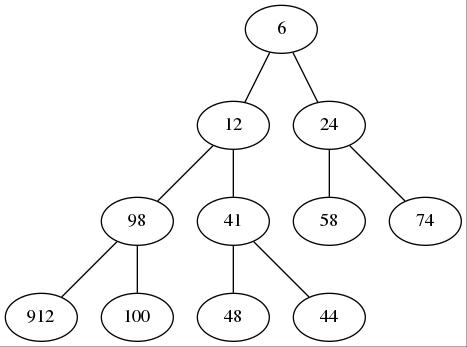
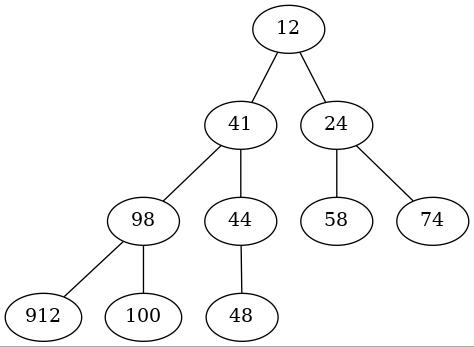
des petites modif de rien du tout

diff --git a/tas_binaire/mathieu/tas_binaire.c b/tas_binaire/mathieu/tas_binaire.c
@@ -12,11 +12,11 @@ int main()
     tab_v[0] = 48;
     tab_v[1] = 912;
     tab_v[10] = 12;
-    tab_v[2] = 24;
+    tab_v[2] = 74;
     tab_v[3] = 98;
     tab_v[4] = 44;
     tab_v[5] = 58;
-    tab_v[6] = 74;
+    tab_v[6] = 24;
     tab_v[7] = 6;
     tab_v[8] = 100;
     tab_v[9] = 41;
@@ -33,14 +33,16 @@ int main()
     fichier_graphiz(tas);
     system("dot -Tjpg graph_tas.dot -o img.jpg");
     system("display ./img.jpg 2> /dev/null");
-
+    fichier_graphiz(tas);
+    system("dot -Tsvg graph_tas.dot -o img.svg");
+    system("display ./img.svg 2> /dev/null");
     /*
     ajouter_elt(tas, 4);
     fichier_graphiz(tas);
     system("dot -Tjpg graph_tas.dot -o img.jpg");
     system("display ./img.jpg 2> /dev/null");
     printf("\n\n fin ajout 4\n");
-
+    
     ajouter_elt(tas, 999);
     fichier_graphiz(tas);
     system("dot -Tjpg graph_tas.dot -o img.jpg");
@@ -60,13 +62,11 @@ int main()
     printf("\n\n fin ajout 10\n");
 */
 
-    /*
     printf("\n\n\n\n\n debut retirage");
     printf("valeur retiree %d\n", retirer_elt(tas));
     fichier_graphiz(tas);
     system("dot -Tjpg graph_tas.dot -o img.jpg");
     system("display ./img.jpg 2> /dev/null");
-*/
 
     /*
     fichier_graphiz(tas);
@@ -88,6 +88,8 @@ int main()
     system("dot -Tjpg graph_tas.dot -o img.jpg");
     system("display ./img.jpg 2> /dev/null");
 */
+
+     
     //void qsort(void *base, size_t nitems, size_t size, int (*compar)(const void *, const void*))
     time_t debut;
     time_t fin;
@@ -162,6 +164,7 @@ int *creer_tas_b(int *tab_v, int nb_elt)
         {
             //printf("tas[%d]=%d\n", i, tas[i]);
             entasser(tas, i);
+
         }
     }
     return tas;
@@ -218,6 +221,7 @@ int retirer_elt(int *tas)
 
 void entasser(int *tas, int i)
 {
+
     int l = f_g(i);
     int r = f_d(i);
     int min = i;
@@ -242,11 +246,12 @@ void entasser(int *tas, int i)
 
 void detasser(int *tas, int i)
 {
+
     int p = pere(i);
 
     int max = i;
 
-    if (p > 1 && tas[p] > tas[i])
+    if (p > 0 && tas[p] > tas[i])
     {
         max = p;
     }
@@ -330,6 +335,7 @@ int *tri_tas_min(int *tab_valeur, int nb_elt)
         for (int i = 0; i < nb_elt; i++)
         {
             tab_valeur[i] = retirer_elt(tas);
+
         }
     }
     else
